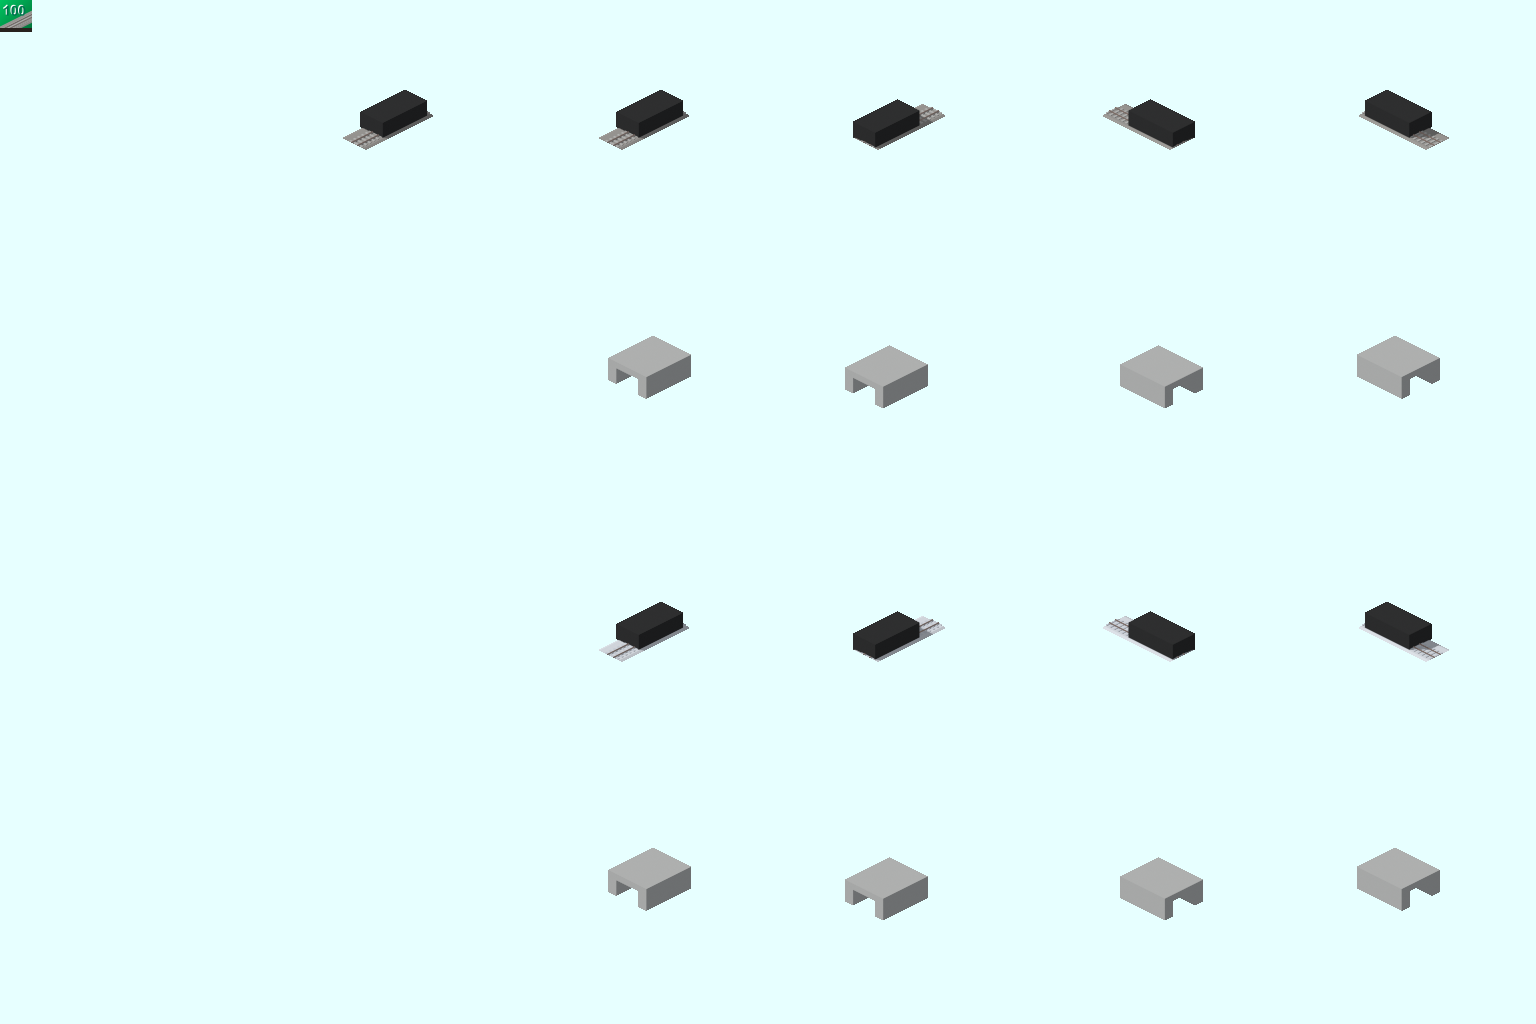
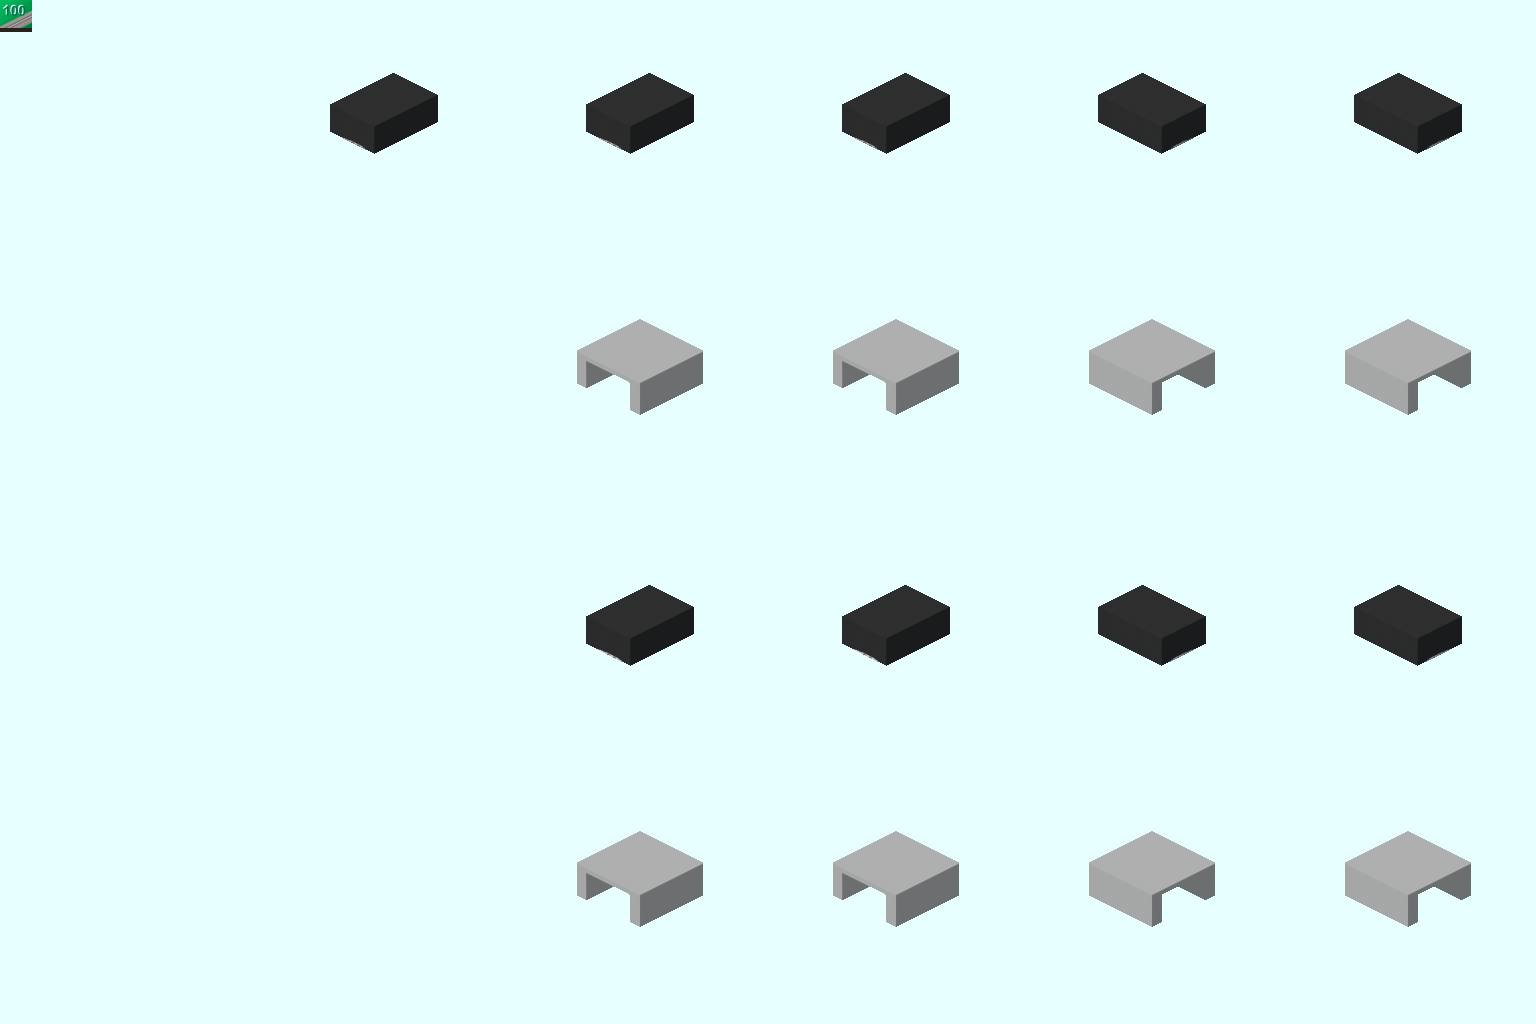
blender-poc: rebuild tunnel portals as full-tile boxes flush with the hilltop, with a wide mouth

diff --git a/addons/blender-poc/blender/render.py b/addons/blender-poc/blender/render.py
@@ -1683,10 +1683,12 @@ def icon_gallery():
 
 
 # ---- トンネル（obj=tunnel）: 坂のタイルに置く坑口。奥の絵 = 線路と暗い内側、手前の絵 = 坑口の躯体（車両を隠す）
-TUNNEL_FACE = 3.0     # 低い側の辺から坑口の面までの距離
-TUNNEL_BORE = (1.7, 2.0)    # 穴の半幅と高さ
-TUNNEL_HOOD = (3.0, 2.8)    # 躯体の半幅と高さ
-TUNNEL_RISE = 26      # 躯体の高さ（画面の px。持ち分を上へ広げる行数）
+# 手本（pak128 標準の rail_100_tunnel、iss の tunnel_surface）と同じ作り: 躯体はタイル全体を覆う箱で、屋根は丘の上面（2 段）と同じ高さ。
+# 口は低い側の辺にあり、幅も高さもタイルいっぱいに近い（128jp の大きめの車両も通る）
+TUNNEL_FACE = 0.0                       # 低い側の辺から坑口の面までの距離
+TUNNEL_BORE = (3.4, 2 * H - 0.6)        # 穴の半幅と高さ（屋根の厚み 0.6 を残す）
+TUNNEL_HOOD = (TILE / 2, 2 * H)         # 躯体の半幅と高さ
+TUNNEL_RISE = 36      # 躯体の高さ（画面の px。持ち分を上へ広げる行数）
 
 
 def tunnel_sheet():
@@ -1702,7 +1704,7 @@ def tunnel_sheet():
     prof = TRACK_PROFILES["new"]
     set_anchor(128 + BALLAST_DY)
     cells = {}
-    a0, a1 = -half + TUNNEL_FACE, half + 0.3  # 坑口の面と、躯体の奥の端（経路に沿った位置）
+    a0, a1 = -half + TUNNEL_FACE, half  # 坑口の面と、躯体の奥の端（経路に沿った位置）
     for row0, skin in ((0, None), (2, SNOW_SKIN)):
         for name, (col, path, d, slope) in dirs.items():
             rot = math.atan2(d.y, d.x)
@@ -1723,7 +1725,8 @@ def tunnel_sheet():
             # 奥の絵: 平らな線路（坂に切り込む）と、穴の内側の暗い箱
             clear_models()
             assemble(TRACK_PARTS, [path], prof["datums"], skin=skin)
-            dark = mesh_object("dark", *box(c.x, c.y, 1.03, a1 - a0 - 0.1, 2 * TUNNEL_BORE[0] + 0.1, 2.0, rot=rot),
+            dark = mesh_object("dark", *box(c.x, c.y, TUNNEL_BORE[1] / 2 + 0.03, a1 - a0 - 0.1, 2 * TUNNEL_BORE[0] + 0.1,
+                                              TUNNEL_BORE[1], rot=rot),
                                material("tunnel_dark", (0.015, 0.015, 0.015)))
             clip_to_tile(dark, 0.0)
             cells[(row0, col)] = shot("_back")

diff --git a/addons/blender-poc/README.md b/addons/blender-poc/README.md
@@ -733,3 +733,14 @@ pak に入れるときは `makeobj` の引数に `track_trial.dat track_wall.dat
     絵も 2 段の坂用に作った
   - ゲームで東西・南北とも掘れ、坑口が 4 方向に出た（`ingame/tunnel.nut`。`docs/trial_tunnel.png`）。雪の絵もある（ゲームでは未確認）
   - 残り: 車両が坑口を通る所は見ていない。地下の線路の絵（トンネルの中）は本体の線路の絵のまま
+
+### トンネルの坑口を手本に合わせる（2026-11-13 続き）
+
+最初の坑口は、タイルの途中から始まる小さな箱で、屋根が丘の上面より低く、穴も狭かった（半幅 1.7・高さ 2.0）。
+手本を見て作り直した（pak128 標準の `rail_100_tunnel.png`: `docs/ref_tunnel_pak128.png`、iss の `tunnel/road/tunnel_surface.png`・`tunnel_rear.png`）。
+
+- 手本の作り: 躯体はタイル全体を覆い、屋根は丘の上面（2 段）と同じ高さの平らな面。口は低い側の辺にあり、幅も高さもタイルいっぱいに近い
+- 直した値（`render.py` の `TUNNEL_*`）: 躯体は半幅 5（タイル全体）・高さ 2 段、口の面は低い側の辺、穴は半幅 3.4・高さ「2 段 − 屋根の厚み 0.6」
+  （幅は前の 2 倍。128jp の大きめの車両を見込む）
+- ゲームで、屋根が丘の上面とそろい、4 方向とも出ることを確かめた（`docs/trial_tunnel.png`）
+- 残り: 手本のような擁壁や口のアーチは作っていない（平らな箱）。車両が通る所は見ていない
